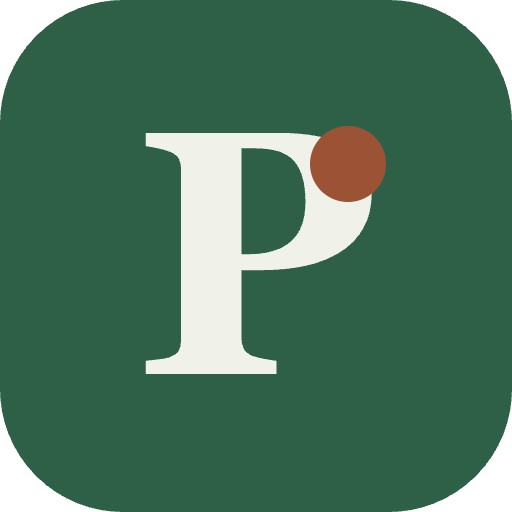
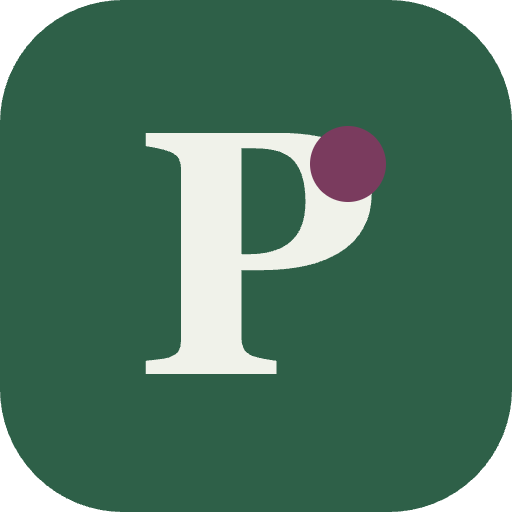
Plum accent, phone-friendly lists, larger labels, design-audit fixes
- Replace the clay accent with plum: --clay renamed --accent (#7A3B5E),
  --accent-on-dark #D69BBE for the forest hero (button, frame, meta);
  section labels move to --forest2; icon dot recoloured to match
- List rows take their date-column width from --cols instead of an inline
  grid-template-columns, so the 640px one-column rule applies (paper titles
  ~180px -> 310px wide on phones); desktop layout unchanged
- Remove editor notes from the public Publications page
- Hero CTA points to the papers (#work); expired CEU copy updated;
  experience timeline lists current roles first
- Featured images on single pages capped at 880px (.figure selector fixed)
- Homepage container aligned with the header; hero grid 1fr 320px keeps
  the headline at four lines
- Larger, medium-weight dates, labels, pills, tags and chips (12-13px floor)
- README documents the palette and the --cols convention

Changed region(s): [[0.5938, 0.25, 0.75, 0.4062]]

diff --git a/static/css/site.css b/static/css/site.css
@@ -38,12 +38,14 @@
 
 :root{
   --paper:#EEF0EA; --ink:#1E231D; --muted:#666A5E; --line:#DCDFD2;
-  --forest:#18241D; --forest2:#2E6048; --clay:#9C5234; --ocean:#2C5C70; --cream:#F0F2EA;
-  /* Clay is only 2.8:1 on --forest; this lighter clay reads 5.7:1 on it.
-     Use it for any clay-coloured text sitting on a dark surface. */
-  --clay-on-dark:#D08A5F;
-  /* Clay text on its own 10% tint is 4.36:1; this darker clay reads 5.3:1. */
-  --clay-on-tint:#8A4829;
+  /* --accent (plum) marks actions and the JMP only; section labels use --forest2.
+     Plum reads 6.99:1 on --paper, cream on plum 7.11:1. */
+  --forest:#18241D; --forest2:#2E6048; --accent:#7A3B5E; --ocean:#2C5C70; --cream:#F0F2EA;
+  /* Plum is only 2.0:1 on --forest; this light plum reads 7.1:1 on it (and
+     --forest text on it 7.1:1). Use it for any accent sitting on a dark surface. */
+  --accent-on-dark:#D69BBE;
+  /* Plum on its own 10% tint is 6.01:1, so no darker shade is needed. */
+  --accent-on-tint:var(--accent);
   --wrap:1100px;
 }
 
@@ -57,14 +59,14 @@ body{
 }
 a{color:inherit;text-decoration:none;}
 img{display:block;max-width:100%;}
-::selection{background:var(--clay);color:var(--cream);}
+::selection{background:var(--accent);color:var(--cream);}
 .wrap{max-width:var(--wrap);margin:0 auto;padding-left:40px;padding-right:40px;}
-.wrap-wide{max-width:1200px;margin:0 auto;padding-left:40px;padding-right:40px;}
+.wrap-wide{max-width:var(--wrap);margin:0 auto;padding-left:40px;padding-right:40px;}
 
 /* ---- Typography helpers ---- */
 .serif{font-family:'Newsreader',Georgia,serif;}
 .mono{font-family:'IBM Plex Mono',ui-monospace,monospace;}
-.eyebrow{font-family:'IBM Plex Mono',monospace;font-size:12px;letter-spacing:0.14em;text-transform:uppercase;color:var(--clay);}
+.eyebrow{font-family:'IBM Plex Mono',monospace;font-size:13px;font-weight:500;letter-spacing:0.14em;text-transform:uppercase;color:var(--forest2);}
 h1,h2,h3{font-family:'Newsreader',Georgia,serif;font-weight:600;letter-spacing:-0.015em;line-height:1.1;}
 
 /* ---- Header / nav ---- */
@@ -76,7 +78,7 @@ h1,h2,h3{font-family:'Newsreader',Georgia,serif;font-weight:600;letter-spacing:-
 .site-header.scrolled{background:rgba(238,240,234,0.92);box-shadow:0 6px 24px rgba(27,38,32,0.08);}
 .site-header .bar{height:68px;display:flex;align-items:center;justify-content:space-between;}
 .brand{display:flex;align-items:center;gap:12px;}
-.brand .dot{width:11px;height:11px;border-radius:50%;background:var(--clay);}
+.brand .dot{width:11px;height:11px;border-radius:50%;background:var(--accent);}
 .brand .brand-icon{width:26px;height:26px;object-fit:contain;display:block;}
 .brand .name{font-family:'Newsreader',serif;font-size:20px;font-weight:600;letter-spacing:-0.01em;white-space:nowrap;}
 .nav{display:flex;align-items:center;gap:22px;font-family:'IBM Plex Mono',monospace;font-size:12px;letter-spacing:0.04em;text-transform:uppercase;color:var(--muted);}
@@ -87,22 +89,22 @@ h1,h2,h3{font-family:'Newsreader',Georgia,serif;font-weight:600;letter-spacing:-
 
 /* ---- Buttons / chips / tags ---- */
 .btn{display:inline-block;font-weight:600;font-size:15px;padding:13px 24px;min-height:44px;border-radius:999px;transition:transform .2s,filter .2s,background .2s,color .2s;}
-.btn-clay{background:var(--clay);color:var(--cream);}
+.btn-accent{background:var(--accent);color:var(--cream);}
 .btn-forest{background:var(--forest2);color:var(--cream);}
 .btn-ocean{background:var(--ocean);color:var(--cream);}
-.btn-clay:hover,.btn-forest:hover,.btn-ocean:hover{filter:brightness(1.08);transform:translateY(-2px);}
+.btn-accent:hover,.btn-forest:hover,.btn-ocean:hover{filter:brightness(1.08);transform:translateY(-2px);}
 .btn-outline{border:1px solid var(--ink);color:var(--ink);}
 .btn-outline:hover{background:var(--ink);color:var(--paper);}
-.pill{display:inline-flex;align-items:center;min-height:44px;font-family:'IBM Plex Mono',monospace;font-size:11px;letter-spacing:0.04em;border:1px solid var(--line);border-radius:999px;padding:6px 15px;color:var(--muted);transition:all .2s;}
+.pill{display:inline-flex;align-items:center;min-height:44px;font-family:'IBM Plex Mono',monospace;font-size:12.5px;letter-spacing:0.04em;border:1px solid var(--line);border-radius:999px;padding:6px 15px;color:var(--muted);transition:all .2s;}
 .pill:hover{border-color:var(--ink);color:var(--ink);}
-.tag{font-family:'IBM Plex Mono',monospace;font-size:10.5px;letter-spacing:0.04em;text-transform:uppercase;padding:4px 10px;border-radius:999px;}
+.tag{font-family:'IBM Plex Mono',monospace;font-size:12px;font-weight:500;letter-spacing:0.04em;text-transform:uppercase;padding:4px 10px;border-radius:999px;}
 .tag-forest{color:var(--forest2);background:rgba(46,96,72,0.09);}
 .tag-ocean{color:var(--ocean);background:rgba(44,92,112,0.10);}
-.tag-clay{color:var(--clay-on-tint);background:rgba(156,82,52,0.10);}
+.tag-accent{color:var(--accent-on-tint);background:rgba(122,59,94,0.10);}
 .tag-line{color:var(--muted);border:1px solid var(--line);}
 
-.chip{font-family:'IBM Plex Mono',monospace;font-size:10px;letter-spacing:0.05em;text-transform:uppercase;padding:5px 11px;border-radius:999px;}
-.chip-jmp{color:var(--cream);background:var(--clay);}
+.chip{font-family:'IBM Plex Mono',monospace;font-size:12px;font-weight:500;letter-spacing:0.05em;text-transform:uppercase;padding:5px 11px;border-radius:999px;}
+.chip-jmp{color:var(--cream);background:var(--accent);}
 .chip-published{color:var(--forest2);background:rgba(46,96,72,0.10);}
 .chip-rr{color:var(--ocean);background:rgba(44,92,112,0.10);}
 .chip-wp{color:var(--muted);border:1px solid var(--line);}
@@ -111,8 +113,8 @@ h1,h2,h3{font-family:'Newsreader',Georgia,serif;font-weight:600;letter-spacing:-
 /* ---- Hero ---- */
 .hero{background:var(--forest);color:var(--cream);position:relative;
   background-image:radial-gradient(rgba(243,239,228,0.11) 1px,transparent 1.4px);background-size:24px 24px;}
-.hero .grid{display:grid;grid-template-columns:1.35fr 0.95fr;gap:72px;align-items:center;padding:96px 40px 104px;}
-.hero .eyebrow{color:var(--clay-on-dark);margin-bottom:26px;}
+.hero .grid{display:grid;grid-template-columns:minmax(0,1fr) 320px;gap:56px;align-items:center;padding:96px 40px 104px;}
+.hero .eyebrow{color:#B8D4A8;margin-bottom:26px;}
 .hero h1{font-weight:500;font-size:clamp(38px,5.2vw,66px);line-height:1.04;letter-spacing:-0.018em;margin-bottom:28px;}
 .hero h1 em{font-style:italic;color:#B8D4A8;}
 .hero .lede{font-size:18px;line-height:1.6;color:rgba(243,239,228,0.74);max-width:560px;margin-bottom:38px;}
@@ -120,10 +122,11 @@ h1,h2,h3{font-family:'Newsreader',Georgia,serif;font-weight:600;letter-spacing:-
 .hero .actions{display:flex;flex-wrap:wrap;gap:14px;align-items:center;}
 .hero .actions .btn-ghost{border:1px solid rgba(243,239,228,0.4);color:var(--cream);font-weight:500;padding:14px 26px;border-radius:999px;transition:all .2s;}
 .hero .actions .btn-ghost:hover{border-color:var(--cream);background:rgba(243,239,228,0.06);}
+.hero .actions .btn-accent{background:var(--accent-on-dark);color:var(--forest);}
 .hero .meta{margin-top:44px;display:flex;gap:28px;flex-wrap:wrap;font-family:'IBM Plex Mono',monospace;font-size:11.5px;letter-spacing:0.08em;color:rgba(243,239,228,0.5);text-transform:uppercase;}
-.hero .meta .accent{color:var(--clay-on-dark);}
+.hero .meta .accent{color:var(--accent-on-dark);}
 .portrait{position:relative;justify-self:center;}
-.portrait .frame{position:absolute;inset:18px -18px -18px 18px;border:1.5px solid var(--clay);border-radius:6px;}
+.portrait .frame{position:absolute;inset:18px -18px -18px 18px;border:1.5px solid var(--accent-on-dark);border-radius:6px;}
 .portrait .pic{position:relative;background:#2A3A31;border-radius:6px;overflow:hidden;box-shadow:0 30px 60px -20px rgba(0,0,0,0.5);}
 .portrait .pic img{width:300px;height:360px;object-fit:cover;}
 .portrait .caption{position:relative;margin-top:22px;font-family:'IBM Plex Mono',monospace;font-size:11px;letter-spacing:0.06em;color:rgba(243,239,228,0.55);text-align:center;}
@@ -149,22 +152,24 @@ h1,h2,h3{font-family:'Newsreader',Georgia,serif;font-weight:600;letter-spacing:-
 
 /* ---- List rows (publications / talks / teaching) ---- */
 .rows{border-top:1px solid var(--line);}
-.row{display:grid;grid-template-columns:150px 1fr auto;gap:32px;align-items:start;padding:30px 18px;border-bottom:1px solid var(--line);transition:background .2s,transform .2s;}
+/* Templates set their date-column width with style="--cols:…", never an inline
+   grid-template-columns, so the one-column rule at max-width:640px still wins. */
+.row{display:grid;grid-template-columns:var(--cols,150px 1fr auto);gap:32px;align-items:start;padding:30px 18px;border-bottom:1px solid var(--line);transition:background .2s,transform .2s;}
 /* Animate transform, never padding: padding re-lays out the row and shifts
    the text under the cursor mid-hover. */
 .row:hover{background:#fff;transform:translateX(10px);}
-.row .when{font-family:'IBM Plex Mono',monospace;font-size:11.5px;letter-spacing:0.05em;text-transform:uppercase;padding-top:5px;}
+.row .when{font-family:'IBM Plex Mono',monospace;font-size:13px;font-weight:500;letter-spacing:0.05em;text-transform:uppercase;padding-top:5px;}
 .row .when .yr{color:var(--muted);}
 .row h3{font-weight:600;font-size:23px;line-height:1.25;margin-bottom:8px;}
-.row .authors{color:var(--muted);font-size:14.5px;margin-bottom:6px;}
+.row .authors{color:var(--muted);font-size:15.5px;margin-bottom:6px;}
 .row .authors a{color:var(--ink);text-decoration:underline;text-decoration-color:var(--line);text-underline-offset:2px;transition:color .15s;}
-.row .authors a:hover{color:var(--clay);text-decoration-color:var(--clay);}
+.row .authors a:hover{color:var(--accent);text-decoration-color:var(--accent);}
 .row .desc{color:var(--ink);font-size:15px;line-height:1.55;max-width:680px;}
 .row .badges{display:flex;align-items:center;gap:10px;flex-wrap:wrap;margin-bottom:9px;}
 .row .tags{display:flex;gap:8px;flex-wrap:wrap;margin-top:14px;}
 .row .links{display:flex;gap:10px;flex-wrap:wrap;margin-top:14px;font-family:'IBM Plex Mono',monospace;font-size:11px;}
 .row .arrow{font-family:'IBM Plex Mono',monospace;font-size:18px;color:var(--muted);padding-top:4px;}
-.row a:hover h3{color:var(--clay);}
+.row a:hover h3{color:var(--accent);}
 .group-label{font-family:'IBM Plex Mono',monospace;font-size:12px;letter-spacing:0.1em;text-transform:uppercase;margin-bottom:6px;}
 
 /* ---- Post grid ---- */
@@ -195,7 +200,7 @@ h1,h2,h3{font-family:'Newsreader',Georgia,serif;font-weight:600;letter-spacing:-
 .timeline{border-left:2px solid var(--line);padding-left:26px;display:flex;flex-direction:column;gap:28px;margin-bottom:44px;}
 .timeline .item{position:relative;}
 .timeline .item .node{position:absolute;left:-33px;top:5px;width:11px;height:11px;border-radius:50%;border:2px solid var(--paper);}
-.timeline .when{font-family:'IBM Plex Mono',monospace;font-size:11px;letter-spacing:0.04em;margin-bottom:5px;}
+.timeline .when{font-family:'IBM Plex Mono',monospace;font-size:12.5px;font-weight:500;letter-spacing:0.04em;margin-bottom:5px;}
 .timeline .role{font-family:'Newsreader',serif;font-size:19px;font-weight:600;}
 .timeline .org{color:var(--muted);font-size:14.5px;}
 .sublabel{font-family:'IBM Plex Mono',monospace;font-size:11.5px;letter-spacing:0.1em;text-transform:uppercase;color:var(--muted);margin-bottom:18px;}
@@ -240,11 +245,12 @@ h1,h2,h3{font-family:'Newsreader',Georgia,serif;font-weight:600;letter-spacing:-
 .article .prose p{margin-bottom:18px;}
 .article .prose h2{font-size:26px;margin:36px 0 14px;}
 .article .prose h3{font-size:21px;margin:28px 0 12px;}
-.article .prose a{color:var(--clay);text-decoration:underline;text-underline-offset:2px;}
+.article .prose a{color:var(--accent);text-decoration:underline;text-underline-offset:2px;}
 .article .prose img{border:1px solid var(--line);border-radius:10px;margin:24px 0;}
 .article .prose ul,.article .prose ol{margin:0 0 18px 22px;}
-.article .figure{max-width:880px;margin:0 auto;padding:0 40px;}
-.article .figure .box{border:1px solid var(--line);border-radius:12px;overflow:hidden;background:#fff;box-shadow:0 24px 50px -34px rgba(27,38,32,0.5);}
+/* .figure sits beside <article>, not inside it, on single pages. */
+.figure{max-width:880px;margin:0 auto;padding:0 40px;}
+.figure .box{border:1px solid var(--line);border-radius:12px;overflow:hidden;background:#fff;box-shadow:0 24px 50px -34px rgba(27,38,32,0.5);}
 .cite-box{background:#fff;border:1px solid var(--line);border-radius:10px;padding:20px 22px;font-family:'IBM Plex Mono',monospace;font-size:12.5px;line-height:1.7;color:var(--ink);}
 
 /* ---- Post gallery ---- */

diff --git a/layouts/index.html b/layouts/index.html
@@ -11,12 +11,12 @@
       <h1>I examine how <em>climate finance</em> is allocated, and what it changes on the ground.</h1>
       <p class="lede">Development economist at <strong>CERDI</strong> (CNRS · UCA · IRD). I use geocoded data, machine learning, and causal inference to follow climate and development finance from commitment to local impact.</p>
       <div class="actions">
-        <a class="btn btn-clay" href="#research">Read the research</a>
+        <a class="btn btn-accent" href="#work">Read the research</a>
         <a class="btn-ghost" href="#contact">Get in touch</a>
       </div>
       <div class="meta">
         <span>CERDI · Clermont-Ferrand</span>
-        <span class="accent">→ Visiting CEU Vienna · 2026</span>
+        <span class="accent">→ ATER · Université Clermont Auvergne</span>
       </div>
     </div>
     <div class="portrait">
@@ -37,10 +37,10 @@
     <p style="max-width:340px;color:var(--muted);font-size:15.5px;">Four threads, one question: does development and climate finance reach the places and outcomes it promises?</p>
   </div>
   <div class="cards">
-    <div class="card"><div class="num" style="color:var(--clay);">01</div><h3>Climate &amp; adaptation finance</h3><p>Tracking the volume, targeting, and gaps in "climate money" - from international commitments to who actually receives it.</p></div>
+    <div class="card"><div class="num" style="color:var(--accent);">01</div><h3>Climate &amp; adaptation finance</h3><p>Tracking the volume, targeting, and gaps in "climate money" - from international commitments to who actually receives it.</p></div>
     <div class="card"><div class="num" style="color:var(--forest2);">02</div><h3>Geocoded &amp; spatial data</h3><p>Mapping development aid to the subnational places it lands, so impact can be measured where it actually happens.</p></div>
     <div class="card"><div class="num" style="color:var(--ocean);">03</div><h3>Causal inference</h3><p>Difference-in-differences, event studies, and double machine learning to estimate the real effects of climate policy.</p></div>
-    <div class="card"><div class="num" style="color:var(--clay);">04</div><h3>ML &amp; NLP for economics</h3><p>Using text-as-data and machine learning to classify and extract signal from large policy and project corpora.</p></div>
+    <div class="card"><div class="num" style="color:var(--accent);">04</div><h3>ML &amp; NLP for economics</h3><p>Using text-as-data and machine learning to classify and extract signal from large policy and project corpora.</p></div>
   </div>
 </section>
 
@@ -100,7 +100,7 @@
       <div class="eyebrow">04 · About</div>
       <h2>Hi there.</h2>
       {{ with $author.Params.bio }}<p>{{ . }}</p>{{ end }}
-      <p>From March to May 2026 I'm a visiting PhD candidate at Central European University in Vienna, hosted by Prof. Florian Weiler in the Department of Public Policy.</p>
+      <p>From March to May 2026 I was a visiting PhD candidate at Central European University in Vienna, hosted by Prof. Florian Weiler in the Department of Public Policy.</p>
       <div class="socials">
         <a href="https://scholar.google.com/citations?user=avg94hwAAAAJ&hl=fr" target="_blank" rel="noopener">Google Scholar</a>
         <a href="https://orcid.org/0009-0009-6713-5608" target="_blank" rel="noopener">ORCID</a>
@@ -111,8 +111,8 @@
     <div>
       <div class="sublabel">Experience</div>
       <div class="timeline">
-        <div class="item"><span class="node" style="background:var(--clay);"></span><div class="when" style="color:var(--clay);">OCT 2023 - PRESENT</div><div class="role">PhD Candidate</div><div class="org">CERDI · CNRS · UCA · IRD - Clermont-Ferrand</div></div>
         <div class="item"><span class="node" style="background:var(--forest2);"></span><div class="when" style="color:var(--forest2);">SEP 2026 - PRESENT</div><div class="role">Teaching and Research Fellow (ATER)</div><div class="org">École de Droit · Université Clermont Auvergne - Clermont-Ferrand<br><span style="color:var(--muted);font-size:13.5px;">Full service · Licence AES</span></div></div>
+        <div class="item"><span class="node" style="background:var(--accent);"></span><div class="when" style="color:var(--accent);">OCT 2023 - PRESENT</div><div class="role">PhD Candidate</div><div class="org">CERDI · CNRS · UCA · IRD - Clermont-Ferrand</div></div>
         <div class="item"><span class="node" style="background:var(--ocean);"></span><div class="when" style="color:var(--ocean);">MAR - MAY 2026</div><div class="role">Visiting PhD Candidate</div><div class="org">Central European University - Vienna</div></div>
         <div class="item"><span class="node" style="background:var(--muted);"></span><div class="when" style="color:var(--muted);">OCT 2022 - SEP 2023</div><div class="role">Research Assistant</div><div class="org">FERDI - Clermont-Ferrand</div></div>
       </div>

diff --git a/layouts/apps/list.html b/layouts/apps/list.html
@@ -18,7 +18,7 @@
     </div>
     <div>
       <div style="display:flex;align-items:center;gap:10px;margin-bottom:14px;">
-        <span class="tag tag-clay">● Open source</span><span class="mono" style="font-size:11px;color:var(--muted);">2026 · formerly claude-devtools-lite</span>
+        <span class="tag tag-accent">● Open source</span><span class="mono" style="font-size:11px;color:var(--muted);">2026 · formerly claude-devtools-lite</span>
       </div>
       <h2>Ember</h2>
       <p class="lede">A workspace for Claude Code: your sessions, a real terminal, your plan and your token budget in one local window, laid out like RStudio. When an AI agent cleans your data, runs your regressions or edits your paper, the terminal shows only a summary. Ember shows everything: every prompt, every command it ran with its output, the exact diff of every file it touched, its reasoning, and how many tokens it used.</p>
@@ -26,7 +26,7 @@
       <div class="techs">
         <span class="tag tag-line">Python stdlib</span><span class="tag tag-line">Vanilla JS</span><span class="tag tag-line">xterm.js</span><span class="tag tag-line">KaTeX</span><span class="tag tag-line">Claude Code</span>
       </div>
-      <a class="btn btn-clay" href="https://github.com/PierreBeaucoral/ember/releases/latest" target="_blank" rel="noopener">Download Ember ↗</a>
+      <a class="btn btn-accent" href="https://github.com/PierreBeaucoral/ember/releases/latest" target="_blank" rel="noopener">Download Ember ↗</a>
       <a class="btn btn-outline" href="https://github.com/PierreBeaucoral/ember" target="_blank" rel="noopener" style="margin:8px 0 0 8px;">View on GitHub ↗</a>
     </div>
   </div>
@@ -41,14 +41,14 @@
     </div>
     <div>
       <div style="display:flex;align-items:center;gap:10px;margin-bottom:14px;">
-        <span class="tag tag-clay">● Live</span><span class="mono" style="font-size:11px;color:var(--muted);">2026</span>
+        <span class="tag tag-accent">● Live</span><span class="mono" style="font-size:11px;color:var(--muted);">2026</span>
       </div>
       <h2>Europe Wildfire Season Tracker</h2>
       <p class="lede">A live watch of Europe's 2026 fire season, rebuilt from fresh EFFIS satellite perimeters and refreshed through the summer. It maps where and when the continent is burning, sets the season against the last decade, measures how much is re-burning old ground, and lets you drop each of the year's largest fires onto the real outline of Paris for scale.</p>
       <div class="techs">
         <span class="tag tag-line">Quarto</span><span class="tag tag-line">EFFIS</span><span class="tag tag-line">Leaflet</span><span class="tag tag-line">sf / R</span><span class="tag tag-line">Open data</span>
       </div>
-      <a class="btn btn-clay" href="https://pierrebeaucoral.github.io/BURNS/" target="_blank" rel="noopener">Open the tracker ↗</a>
+      <a class="btn btn-accent" href="https://pierrebeaucoral.github.io/BURNS/" target="_blank" rel="noopener">Open the tracker ↗</a>
     </div>
   </div>
 

diff --git a/layouts/partials/pub-item.html b/layouts/partials/pub-item.html
@@ -7,7 +7,7 @@
   {{- if and (eq $p.Section "publication") $p.Params.doi -}}{{- $status = "published" -}}{{- else -}}{{- $status = "wp" -}}{{- end -}}
 {{- end -}}
 {{- $label := "Working paper" -}}{{- $chip := "chip-wp" -}}{{- $accent := "var(--muted)" -}}
-{{- if eq $status "jmp" -}}{{- $label = "JMP" -}}{{- $chip = "chip-jmp" -}}{{- $accent = "var(--clay)" -}}
+{{- if eq $status "jmp" -}}{{- $label = "JMP" -}}{{- $chip = "chip-jmp" -}}{{- $accent = "var(--accent)" -}}
 {{- else if eq $status "rr" -}}{{- $label = "R&R" -}}{{- $chip = "chip-rr" -}}{{- $accent = "var(--ocean)" -}}
 {{- else if eq $status "published" -}}{{- $label = "Journal article" -}}{{- $chip = "chip-published" -}}{{- $accent = "var(--forest2)" -}}
 {{- else if eq $status "wip" -}}{{- $label = "Work in progress" -}}{{- $chip = "chip-wip" -}}{{- $accent = "var(--muted)" -}}
@@ -24,12 +24,11 @@
   {{- if $hasProfile -}}{{- $names = $names | append (printf `<a href="%s">%s</a>` $ap.RelPermalink $disp) -}}{{- else -}}{{- $names = $names | append $disp -}}{{- end -}}
 {{- end -}}
 {{- $desc := $p.Params.summary | default $p.Summary -}}
-<div class="row" style="grid-template-columns:140px 1fr;">
+<div class="row" style="--cols:140px 1fr;">
   <div class="when" style="color:{{ $accent | safeCSS }};">{{ dateFormat "2006" $p.Date }}</div>
   <div>
     <div class="badges">
       <span class="chip {{ $chip }}">{{ $label }}{{ if and (eq $status "rr") $p.Params.rr_journal }} · {{ $p.Params.rr_journal }}{{ end }}</span>
-      {{ if $p.Params.featured_home }}<span class="mono" style="font-size:12px;letter-spacing:0.05em;text-transform:uppercase;color:var(--muted);">★ on homepage</span>{{ end }}
     </div>
     <a href="{{ $url }}"{{ if hasPrefix $url "http" }} target="_blank" rel="noopener"{{ end }}><h3>{{ $p.Title }}</h3></a>
     {{ with $p.Params.publication }}<p class="authors">{{ delimit $names " · " | safeHTML }}{{ if $names }} · {{ end }}<em>{{ . | markdownify }}</em></p>{{ else }}{{ with $names }}<p class="authors">{{ delimit . ", " | safeHTML }}</p>{{ end }}{{ end }}

diff --git a/layouts/authors/term.html b/layouts/authors/term.html
@@ -7,7 +7,7 @@
       <div class="eyebrow">Author</div>
       <h1 class="serif" style="font-weight:500;font-size:clamp(30px,4vw,46px);letter-spacing:-0.015em;margin:12px 0 8px;">{{ .Title }}</h1>
       {{ with .Params.role }}<p style="font-size:17px;color:var(--muted);margin-bottom:6px;">{{ . }}</p>{{ end }}
-      {{ range .Params.organizations }}<p class="mono" style="font-size:12px;letter-spacing:0.04em;color:var(--clay);margin-bottom:2px;">{{ with .url }}<a href="{{ . }}" target="_blank" rel="noopener">{{ end }}{{ .name }}{{ with .url }}</a>{{ end }}</p>{{ end }}
+      {{ range .Params.organizations }}<p class="mono" style="font-size:12px;letter-spacing:0.04em;color:var(--accent);margin-bottom:2px;">{{ with .url }}<a href="{{ . }}" target="_blank" rel="noopener">{{ end }}{{ .name }}{{ with .url }}</a>{{ end }}</p>{{ end }}
       {{ with .Params.bio }}<p style="font-size:16px;line-height:1.65;margin-top:16px;max-width:660px;">{{ . }}</p>{{ end }}
     </div>
   </div>
@@ -35,7 +35,7 @@
   <div class="rows">
     {{ range (sort . "Date" "desc") }}
     <a href="{{ .RelPermalink }}">
-      <div class="row" style="grid-template-columns:130px 1fr;">
+      <div class="row" style="--cols:130px 1fr;">
         <div class="when" style="color:var(--muted);">{{ dateFormat "2006" .Date }}</div>
         <div><h3 style="font-size:20px;">{{ .Title }}</h3>{{ with .Params.publication }}<p class="authors"><em>{{ . | markdownify }}</em></p>{{ end }}</div>
       </div>

diff --git a/layouts/_default/single.html b/layouts/_default/single.html
@@ -8,7 +8,7 @@
 
   <div class="badges" style="margin:26px 0 12px;">
     {{ with .Params.status }}<span class="chip {{ if eq . "jmp" }}chip-jmp{{ else if eq . "rr" }}chip-rr{{ else if eq . "published" }}chip-published{{ else if eq . "wip" }}chip-wip{{ else }}chip-wp{{ end }}">{{ if eq . "wip" }}Work in progress{{ else if eq . "wp" }}Working paper{{ else }}{{ . | upper }}{{ end }}</span>{{ end }}
-    <span class="mono" style="font-size:11px;color:var(--muted);">{{ dateFormat "January 2006" .Date }}</span>
+    <span class="mono" style="font-size:12.5px;color:var(--muted);">{{ dateFormat "January 2006" .Date }}</span>
   </div>
 
   <h1>{{ .Title }}</h1>
@@ -40,7 +40,7 @@
 
 <section class="article" style="padding-top:48px;">
   {{ with .Params.abstract }}
-  <div class="mono" style="font-size:11.5px;letter-spacing:0.12em;text-transform:uppercase;color:var(--clay);margin-bottom:18px;">Abstract</div>
+  <div class="mono" style="font-size:13px;font-weight:500;letter-spacing:0.12em;text-transform:uppercase;color:var(--accent);margin-bottom:18px;">Abstract</div>
   <div class="prose"><p>{{ . | markdownify }}</p></div>
   {{ end }}
   {{ with .Content }}<div class="prose" style="margin-top:18px;">{{ . }}</div>{{ end }}

diff --git a/layouts/course/course.html b/layouts/course/course.html
@@ -36,12 +36,12 @@
     {{- else -}}{{- if os.FileExists (printf "static/course/%s/site.html" $slug) -}}{{- $href = printf "/course/%s/site.html" $slug -}}{{- $ext = true -}}{{- end -}}{{- end -}}
     {{- $ys := index $yearsOf $slug -}}
     <a class="" href="{{ $href }}"{{ if $ext }} target="_blank" rel="noopener"{{ end }} data-years="{{ delimit $ys "|" }}">
-      <div class="row" style="grid-template-columns:150px 1fr;">
+      <div class="row" style="--cols:150px 1fr;">
         <div class="when" style="color:var(--forest2);">{{ delimit $ys "<br>" | safeHTML }}</div>
         <div>
           <h3 style="margin-bottom:8px;">{{ .Title }}</h3>
           {{ with .Params.summary }}<p class="desc">{{ . }}</p>{{ end }}
-          {{ with .Params.role }}<div style="display:flex;gap:6px;margin-top:10px;">{{ range . }}<span class="tag {{ if eq . "Lecturer" }}tag-clay{{ else }}tag-line{{ end }}">{{ . }}</span>{{ end }}</div>{{ end }}
+          {{ with .Params.role }}<div style="display:flex;gap:6px;margin-top:10px;">{{ range . }}<span class="tag {{ if eq . "Lecturer" }}tag-accent{{ else }}tag-line{{ end }}">{{ . }}</span>{{ end }}</div>{{ end }}
         </div>
       </div>
     </a>

diff --git a/layouts/publication/publication.html b/layouts/publication/publication.html
@@ -8,7 +8,6 @@
     <span class="chip chip-rr">R&amp;R</span>
     <span class="chip chip-wp">Working paper</span>
     <span class="chip chip-wip">Work in progress</span>
-    <span class="mono" style="font-size:11px;color:var(--muted);margin-left:6px;">↳ status &amp; homepage-pin set per paper</span>
   </div>
 </div>
 
@@ -27,7 +26,7 @@
   {{- end -}}
 {{- end -}}
 
-{{- $groups := slice (dict "k" "jmp" "label" "Job market paper" "color" "var(--clay)") (dict "k" "published" "label" "Published" "color" "var(--forest2)") (dict "k" "rr" "label" "Revise &amp; resubmit" "color" "var(--ocean)") (dict "k" "wp" "label" "Working papers" "color" "var(--muted)") (dict "k" "wip" "label" "Work in progress" "color" "var(--muted)") -}}
+{{- $groups := slice (dict "k" "jmp" "label" "Job market paper" "color" "var(--accent)") (dict "k" "published" "label" "Published" "color" "var(--forest2)") (dict "k" "rr" "label" "Revise &amp; resubmit" "color" "var(--ocean)") (dict "k" "wp" "label" "Working papers" "color" "var(--muted)") (dict "k" "wip" "label" "Work in progress" "color" "var(--muted)") -}}
 
 <div class="wrap" style="padding-top:40px;padding-bottom:48px;">
   {{ range $groups }}

diff --git a/layouts/course/single.html b/layouts/course/single.html
@@ -8,7 +8,7 @@
 
   <div class="badges" style="margin:26px 0 12px;">
     {{ with .Params.status }}<span class="chip {{ if eq . "jmp" }}chip-jmp{{ else if eq . "rr" }}chip-rr{{ else if eq . "published" }}chip-published{{ else }}chip-wp{{ end }}">{{ . | upper }}</span>{{ end }}
-    <span class="mono" style="font-size:11px;color:var(--muted);">{{ dateFormat "January 2006" .Date }}</span>
+    <span class="mono" style="font-size:12.5px;color:var(--muted);">{{ dateFormat "January 2006" .Date }}</span>
   </div>
 
   <h1>{{ .Title }}</h1>
@@ -35,7 +35,7 @@
 
 <section class="article" style="padding-top:48px;">
   {{ with .Params.abstract }}
-  <div class="mono" style="font-size:11.5px;letter-spacing:0.12em;text-transform:uppercase;color:var(--clay);margin-bottom:18px;">Abstract</div>
+  <div class="mono" style="font-size:13px;font-weight:500;letter-spacing:0.12em;text-transform:uppercase;color:var(--accent);margin-bottom:18px;">Abstract</div>
   <div class="prose"><p>{{ . | markdownify }}</p></div>
   {{ end }}
   {{ with .Content }}<div class="prose" style="margin-top:18px;">{{ . }}</div>{{ end }}

diff --git a/layouts/event/single.html b/layouts/event/single.html
@@ -8,7 +8,7 @@
 
   <div class="badges" style="margin:26px 0 12px;">
     {{ with .Params.status }}<span class="chip {{ if eq . "jmp" }}chip-jmp{{ else if eq . "rr" }}chip-rr{{ else if eq . "published" }}chip-published{{ else }}chip-wp{{ end }}">{{ . | upper }}</span>{{ end }}
-    <span class="mono" style="font-size:11px;color:var(--muted);">{{ dateFormat "January 2006" .Date }}</span>
+    <span class="mono" style="font-size:12.5px;color:var(--muted);">{{ dateFormat "January 2006" .Date }}</span>
   </div>
 
   <h1>{{ .Title }}</h1>
@@ -34,7 +34,7 @@
 
 <section class="article" style="padding-top:48px;">
   {{ with .Params.abstract }}
-  <div class="mono" style="font-size:11.5px;letter-spacing:0.12em;text-transform:uppercase;color:var(--clay);margin-bottom:18px;">Abstract</div>
+  <div class="mono" style="font-size:13px;font-weight:500;letter-spacing:0.12em;text-transform:uppercase;color:var(--accent);margin-bottom:18px;">Abstract</div>
   <div class="prose"><p>{{ . | markdownify }}</p></div>
   {{ end }}
   {{ with .Content }}<div class="prose" style="margin-top:18px;">{{ . }}</div>{{ end }}

diff --git a/layouts/publication/single.html b/layouts/publication/single.html
@@ -8,7 +8,7 @@
 
   <div class="badges" style="margin:26px 0 12px;">
     {{ with .Params.status }}<span class="chip {{ if eq . "jmp" }}chip-jmp{{ else if eq . "rr" }}chip-rr{{ else if eq . "published" }}chip-published{{ else }}chip-wp{{ end }}">{{ . | upper }}</span>{{ end }}
-    <span class="mono" style="font-size:11px;color:var(--muted);">{{ dateFormat "January 2006" .Date }}</span>
+    <span class="mono" style="font-size:12.5px;color:var(--muted);">{{ dateFormat "January 2006" .Date }}</span>
   </div>
 
   <h1>{{ .Title }}</h1>
@@ -34,7 +34,7 @@
 
 <section class="article" style="padding-top:48px;">
   {{ with .Params.abstract }}
-  <div class="mono" style="font-size:11.5px;letter-spacing:0.12em;text-transform:uppercase;color:var(--clay);margin-bottom:18px;">Abstract</div>
+  <div class="mono" style="font-size:13px;font-weight:500;letter-spacing:0.12em;text-transform:uppercase;color:var(--accent);margin-bottom:18px;">Abstract</div>
   <div class="prose"><p>{{ . | markdownify }}</p></div>
   {{ end }}
   {{ with .Content }}<div class="prose" style="margin-top:18px;">{{ . }}</div>{{ end }}

diff --git a/layouts/event/event.html b/layouts/event/event.html
@@ -8,8 +8,8 @@
 <div class="wrap" style="padding-top:8px;padding-bottom:40px;">
   <div class="rows">
     {{ range (sort .Pages "Date" "desc") }}
-    <div class="row" style="grid-template-columns:170px 1fr;">
-      <div class="when" style="color:var(--clay);">{{ dateFormat "Jan 2006" .Date }}</div>
+    <div class="row" style="--cols:170px 1fr;">
+      <div class="when" style="color:var(--accent);">{{ dateFormat "Jan 2006" .Date }}</div>
       <div>
         <h3 style="margin-bottom:6px;">{{ .Params.event | default .Title }}</h3>
         {{ with .Params.summary }}<p class="desc" style="margin-bottom:6px;">{{ . }}</p>{{ end }}
